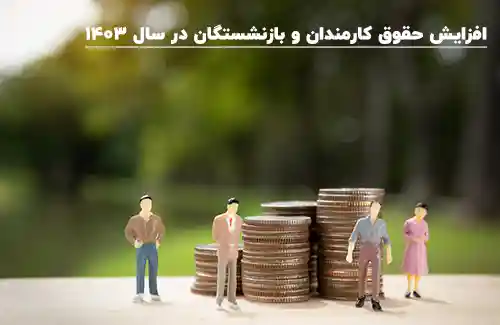
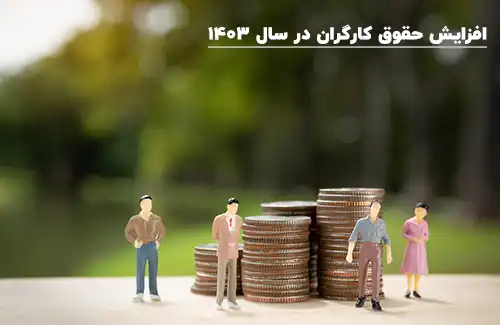
بروز رسانی محتوا

diff --git a/Financial/WhatIsPayroll/Payroll1403.md b/Financial/WhatIsPayroll/Payroll1403.md
@@ -1,48 +1,71 @@
 ---
-title: افزایش حقوق کارمندان و بازنشستگان در سال 1403 چقدر است؟
-author: سمانه رشوند  
-description: طبق اظهارات اعضای کمیسیون تلفیق بودجه، متوسط افزایش حقوق کارمندان دولت در سال آینده 20 درصد می باشد.
-dateModified: 2024/02/20  
-datePublished: 2024/01/15 
+title: حقوق اداره کار 1403 (جدول حقوق کارگران 1403)
+author: سمانه رشوند
+description: طبق اظهارات اعضای کمیسیون تلفیق بودجه، متوسط افزایش حقوق کارگران در سال آینده 35 درصد می باشد.
+dateModified: 2024/03/26
+datePublished: 2024/01/15
 uid: Financial/WhatIsPayroll/Payroll1403
 ---
 
-## آخرین اخبار حقوق وزارت کار کارمندان و بازنشستگان در سال 1403
+## افزایش حقوق وزارت کار در سال 1403
 
-![افزایش حقوق کارمندان و بازنشستگان در سال 1403](./Images/Payroll1403.webp)
+![افزایش حقوق کارگران در سال 1403](./Images/Payroll1403.webp)
 
-یکی از مهمترین مباحث مرتبط با بودجه سالیانه کشور، بحث افزایش حقوق کارمندان و بازنشستگان است. در روزهای اخیر، اخباری مبنی بر تصویب افزایش متوسط 20 درصدی حقوق کارمندان و بازنشستگان در سال 1403 منتشر شده است.
 
-طبق اظهارات اعضای کمیسیون تلفیق بودجه، متوسط افزایش حقوق کارمندان دولت در سال آینده 20 درصد می باشد. 
 
-از جمله موارد مهمی که در این زمینه مطرح شده، تعیین حداقل کف حقوق کارمندان برای سال آینده معادل 10 میلیون تومان است. همچنین قرار است علاوه بر افزایش 20 درصدی، مبلغ 1.5 میلیون تومان نیز به صورت ثابت به حقوق همه کارمندان اضافه شود.
+یکی از مهمترین مباحث مرتبط با بودجه سالیانه کشور، بحث افزایش حقوق کارگران است.
+
+در جدیدترین نشست شورای عالی کار، حداقل پایه حقوق کارگران با افزایشی معادل ۳۵.۳ درصد تعیین گردید.
+
+**براساس آخرین اطلاعات، تغییرات مزایای جانبی 1403 به شرح ذیل خواهد بود:**
+
+سایر سطوح کارگری نسبت به سال قبل با ۲۲ درصد رشد به ازای هر ماه، تعیین گردید.
+
+طبق جدول حقوق 1403، حداقل دستمزد روزانه ۲,۳۸۸,۷۲۸ ریال و حداقل حقوق ماهیانه بدون احتساب مزایا ۷۱,۶۶۱,۸۴۰ ریال خواهد بود.
 
 <blockquote style="background-color:#f5f5f5; padding:0.5rem">
 <p><strong>آشنایی با <a href="https://www.hooshkar.com/Software/Sayan/Module/Payroll" target="_blank">نرم افزار محاسبه عیدی و سنوات</a> سایان</strong></p></blockquote>
 
-**عضو کمیسیون تلفیق بودجه ۱۴۰۳ یادآور شد:**
+## جدول حقوق و مزایای کارگران در سال 1403
 
->با توجه به شرایط تورمی فعلی، وضعیت اقتصادی حداقلبگیران مطلوب نیست. به همین دلیل تصمیم گرفتیم برای حداقلبگیران افزایش مناسبی در نظر بگیریم. در نتیجه سه تصمیم زیر اتخاذ شده است:
+### سطح پایه (حداقل)
 
-> وی افزود: این موارد در حال حاضر تنها تصمیمات کمیته حقوق و دستمزد هستند و باید از صحن تلفیق و سپس صحن علنی مجلس عبور کنند تا به تصویب برسند که این فرایند زمانبر است. با این حال، فعلاً تصمیم بر این است که حقوقها بهطور متوسط 20 درصد افزایش یابند.
+ شرح |  روزانه (ریال) | ماهیانه (ریال)
+------------ | -------------  | -------------
+حداقل دستمزد (با مبنای 30 روزه) | 2.388.728 | 71.661.840
+بن کارگری | 466.666  | 14.000.000
+حق مسکن | 300.000 | 9.000.000
+حق اولاد (برای هر فرزند) | 238.872 | 7.166.184
+پایه سنوات (به شرط داشتن یکسال سابقه کار) | 70.000 | 2.100.000
 
-**عنابستانی در مورد جزئیات اجرای این افزایش حقوق گفت:**
+### سایر سطوح
 
-> اول اینکه، کف حقوق و دستمزد حداقل باید برای کارمندان 10 میلیون تومان تعیین شود، در حالی که امسال 7 میلیون و 920 هزار تومان است.
+ شرح |  روزانه (ریال) | ماهیانه (ریال)
+------------ | -------------  | -------------
+مبلغ ثابت اضافه پرداختی ماهیانه | 230.026 | 6.900.870
+پایه سنوات (به شرط داشتن یکسال سابقه کار) | 70.000 | 2.100.000
+بن کارگری | 466.666  | 14.000.000
+حق مسکن | 300.000 | 9.000.000
+حق اولاد (برای هر فرزند) | 238.872 | 7.166.184
+حق تاهل (متاهلین) | 16.667 | 5.000.000
 
-> دوم اینکه، مبلغ 1.5 میلیون تومان به صورت یکسان به حقوق همه کارمندان اضافه شود تا به کارمندان دارای حقوق پایینتر کمک کند.
+#### دریافتی کارگران مجرد - بدون سابقه
+94.661.840 ریال
 
-> سوم اینکه، 10 درصد نیز به حقوق تمام کارمندان افزوده شود.
+#### دریافتی کارگران متاهل - بدون فرزند
+96.761.840 ریال
 
-**رئیس کمیته حقوق و دستمزد مجلس در ادامه توضیح داد:**
+#### دریافتی کارگران متاهل - با یک فرزند
+108.928.024 ریال
 
->یعنی این 20 درصد افزایش حقوق به این شکل اعمال میشود که 1.5 میلیون تومان به صورت ثابت و 10 درصد نیز به حقوق همه افزوده میشود. در نتیجه، فردی که حداقل حقوق دریافت میکند، حقوقش 10 میلیون تومان میشود، 1.5 میلیون تومان هم به آن اضافه میشود یعنی 11.5 میلیون تومان و حدود 1 میلیون تومان هم بابت همسر و فرزند اضافه میشود. در مجموع افزایش حقوق این فرد حدود 40 تا 41 درصد خواهد بود.
+#### دریافتی کارگران متاهل - با دو فرزند
+111.077.879 ریال
 
 <blockquote style="background-color:#f5f5f5; padding:0.5rem">
 <p><strong>بیشتر بخوانید: <a href="https://www.hooshkar.com/Wiki/Payroll/Payroll1401" target="_blank">حقوق وزارت کار 1402؛ جدول پایه حقوق اداره کار
 </a></p></strong></blockquote>
 
 -----
- برای اطلاع از قیمت نرم افزار حقوق و دستمزد سایان، همین حالا با شماره های 02691001012 - 09120259585 تماس بگیرید. 
+ برای اطلاع از **قیمت نرم افزار حقوق و دستمزد سایان**، همین حالا با شماره های 02691001012 - 09120259585 تماس بگیرید. 
  مشاوران <a href="https://www.hooshkar.com" target="_blank">هوشکار</a> آماده پاسخگویی به تمام سوالات شما در این زمینه هستند. 
 
